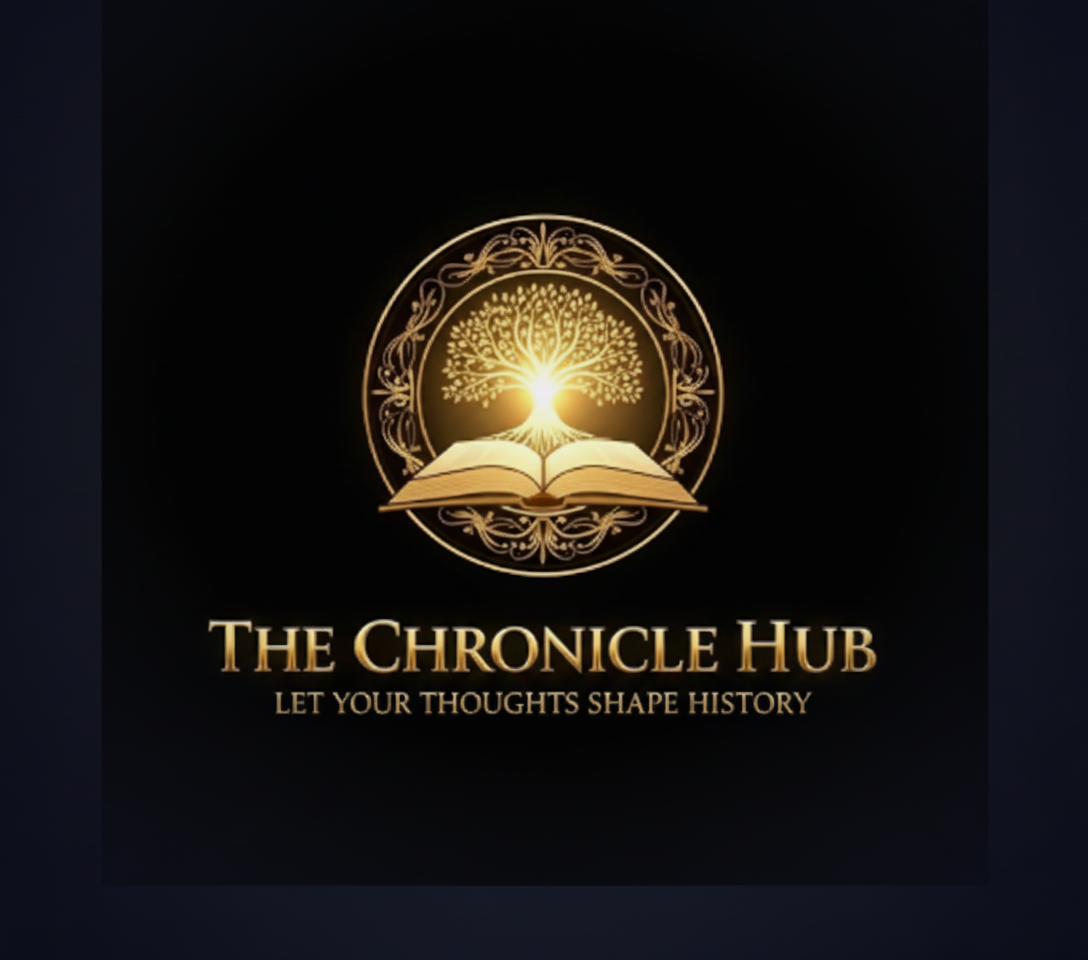
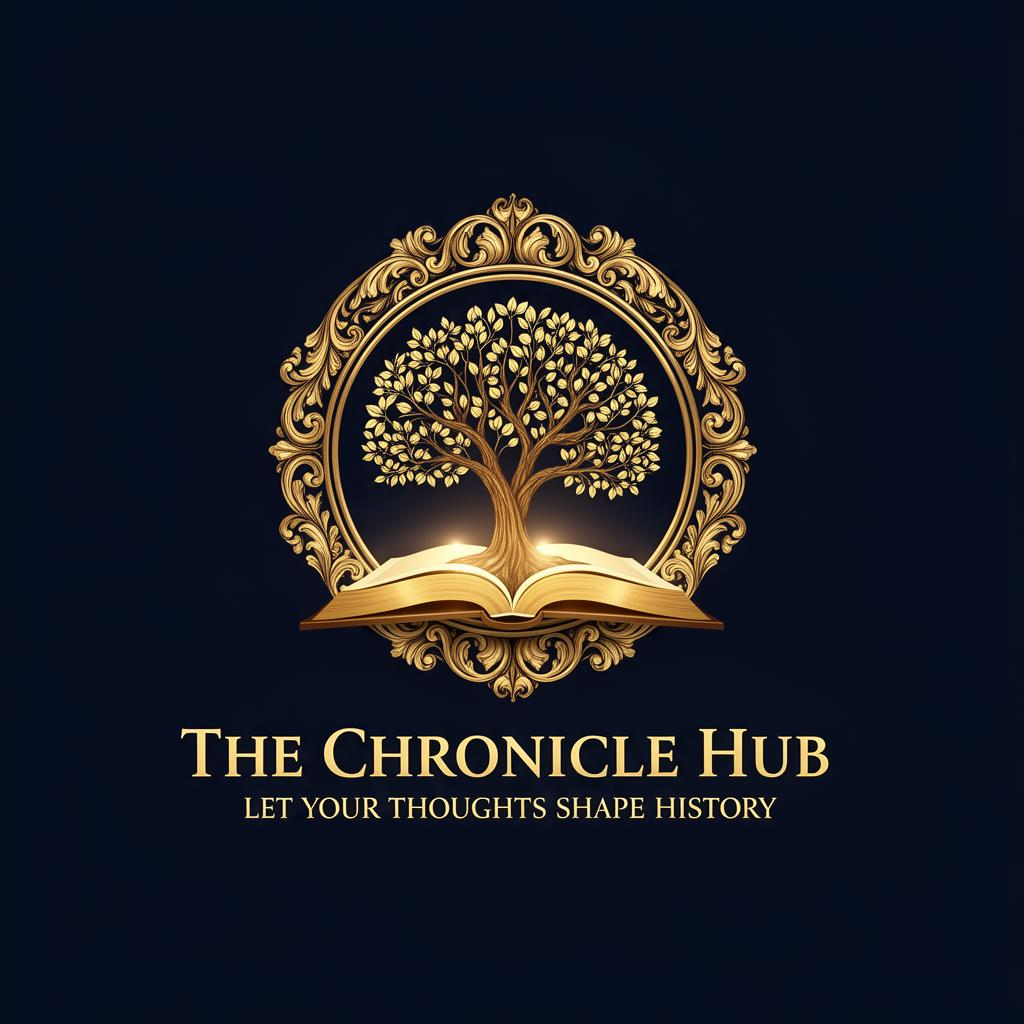
Changes

diff --git a/src/components/ChronicleHubLogo.tsx b/src/components/ChronicleHubLogo.tsx
@@ -1,5 +1,3 @@
-import logoImage from "@/assets/chronicle-hub-logo.png";
-
 interface LogoProps {
   variant?: "full" | "mark";
   className?: string;
@@ -20,50 +18,28 @@ const ChronicleHubLogo = ({ variant = "full", className = "", size = "md" }: Log
   return (
     <div className={`flex ${isHero ? "flex-col items-center" : "items-center gap-2.5"} shrink-0 ${className}`}>
       <div
-        className="relative shrink-0 overflow-hidden"
+        className="relative shrink-0"
         style={{
           width: isHero ? undefined : imgSize,
           height: isHero ? "auto" : imgSize,
           maxWidth: isHero ? "420px" : undefined,
         }}>
-
-        {isHero &&
-        <div
-          className="absolute inset-0 pointer-events-none"
-          style={{
-            background: "radial-gradient(circle, hsl(43 64% 52% / 0.08) 0%, transparent 70%)",
-            transform: "scale(1.5)",
-            filter: "blur(20px)"
-          }} />
-
-        }
         <img
           alt="The Chronicle Hub"
-          className="relative z-10 object-contain"
-          style={{
-            mixBlendMode: "screen",
-            filter: isHero
-              ? "brightness(1.1) drop-shadow(0 0 30px hsl(43 64% 52% / 0.2))"
-              : "brightness(1.1)",
-            width: isHero ? "130%" : "100%",
-            height: "auto",
-            marginLeft: isHero ? "-15%" : undefined,
-            marginTop: isHero ? "-10%" : undefined,
-            marginBottom: isHero ? "-10%" : undefined,
-          }} src="/lovable-uploads/3c000f84-809b-4591-b4a4-49a2b0f60acf.png" />
-
+          className="w-full h-auto object-contain"
+          src="/lovable-uploads/3c000f84-809b-4591-b4a4-49a2b0f60acf.png"
+        />
       </div>
 
-      {variant === "full" && !isHero &&
-      <span
-        className="tracking-[0.18em] uppercase text-primary font-bold text-lg"
-        style={{ fontFamily: "'Cinzel', serif" }}>
-
+      {variant === "full" && !isHero && (
+        <span
+          className="tracking-[0.18em] uppercase text-primary font-bold text-lg"
+          style={{ fontFamily: "'Cinzel', serif" }}>
           The Chronicle Hub
         </span>
-      }
-    </div>);
-
+      )}
+    </div>
+  );
 };
 
 export default ChronicleHubLogo;
